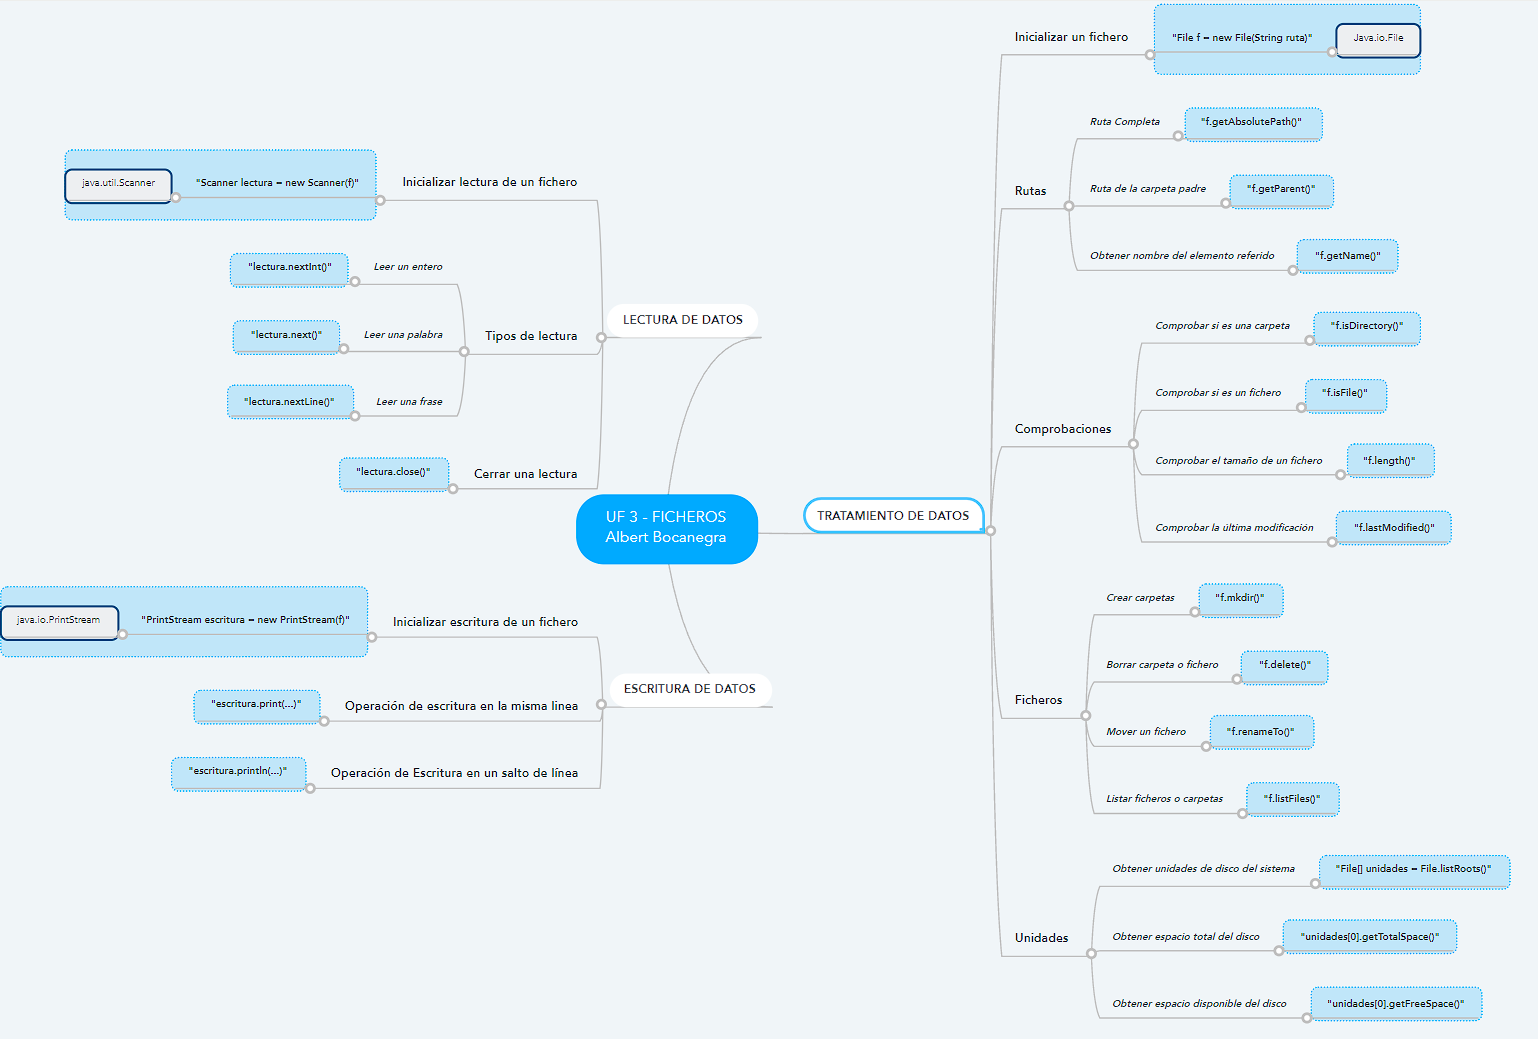
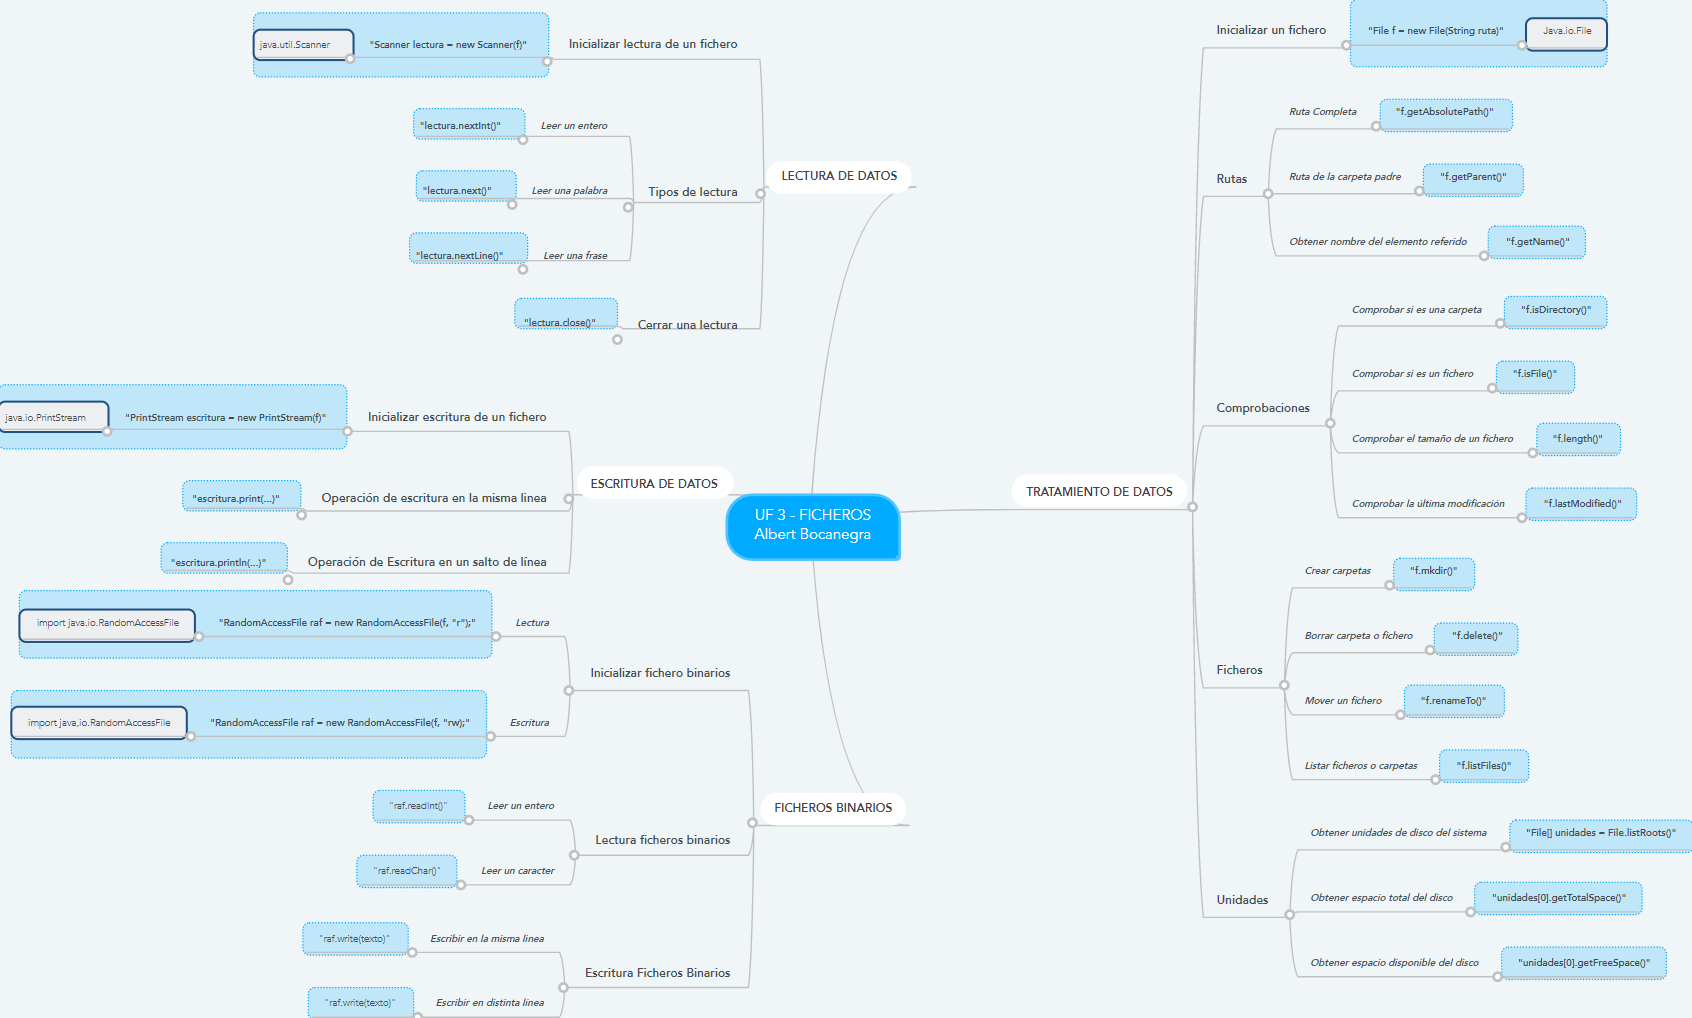
Nuevos documentos
Nuevos ficheros de texto de M03 de programacion

diff --git a/M03 - Programación/ficheros/src/main/java/dev/boca/ficheros/E025reales.java b/M03 - Programación/ficheros/src/main/java/dev/boca/ficheros/E025reales.java
@@ -1,0 +1,65 @@
+package dev.boca.ficheros;
+
+import java.io.File;
+import java.io.RandomAccessFile;
+import java.util.Arrays;
+import java.util.Random;
+
+public class E025reales {
+    public static void main(String[] args) {
+        E025reales programa = new E025reales();
+        programa.inicio();
+    }
+    
+    public void inicio(){
+        File f = new File("Reales.bin");
+        crearFichero(f);
+        double[] valores = leerReales(f);
+        if(valores != null){
+            // todook
+            Arrays.sort(valores);
+            for(int i = valores.length-1; i>=0;i--){
+                System.out.println(valores[i]);
+            }
+        }else{
+            System.out.println("Error en la lectura de datos");
+        }
+    }
+    
+    // lectura de datos del bin y guardarlos en un array
+    // entrada -> ruta
+    // salida -> array de reales
+    public double[] leerReales(File f){
+        try {
+            RandomAccessFile raf = new RandomAccessFile(f, "r");
+            // calculo del numero de reales
+            long numReales = f.length() / 8;
+            // necesito un entero para inicializar el array
+            int n = (int)numReales;
+            double []array = new double[n];
+            for(int i = 0; i<numReales; i++){
+                array[i] = raf.readDouble();
+            }
+            raf.close();
+            return array;
+        } catch (Exception e) {
+            System.out.println("Error: " + e);
+            return null;
+        }
+    }
+    // metodo que crea fichero bin con valores random entre 0 y 100
+    // entrada -> la ruta
+    // salida -> nope
+    public void crearFichero(File f){
+        try {
+            RandomAccessFile raf = new RandomAccessFile(f, "rw");
+            Random r = new Random();
+            for(int i = 0; i<20;i++){
+                raf.writeDouble(100*r.nextDouble());
+            }
+            raf.close();
+        } catch (Exception e) {
+            System.out.println("Error: " + e);
+        }
+    }
+}

diff --git a/M03 - Programación/ficheros/src/main/java/dev/boca/ficheros/E021notasNuevoFichero.java b/M03 - Programación/ficheros/src/main/java/dev/boca/ficheros/E021notasNuevoFichero.java
@@ -1,0 +1,57 @@
+package dev.boca.ficheros;
+
+import java.io.File;
+import java.io.FileWriter;
+import java.io.PrintStream;
+import java.io.PrintWriter;
+import java.util.Scanner;
+
+public class E021notasNuevoFichero {
+       
+    public static void main(String[] args) {
+        E021notasNuevoFichero programa = new E021notasNuevoFichero();
+        programa.inicio();
+    }
+    
+    public void inicio(){
+        try {
+            File f = new File("conversacion.txt");
+            PrintStream escritura = new PrintStream(f);      
+            String Nombre1 = "Albert";
+            String Nombre2 = "Jose";
+            escritura.println("Esta conversacion la compone entre: " + Nombre1 + " y " + Nombre2);
+            conversacion(Nombre1, Nombre2, f);
+            escritura.close();
+        } catch (Exception e) {
+            System.out.println("Error: " + e);
+        }
+    }
+    
+    public void conversacion(String a, String b, File f){
+        try {
+            int turno = 0;
+            PrintWriter sobreEscritura = new PrintWriter(new FileWriter(f, true));
+            boolean fin = false;
+            Scanner entrada = new Scanner(System.in);
+            while(!fin){
+                String texto;
+                if(turno == 0){
+                    texto = entrada.nextLine();
+                    sobreEscritura.println(a + ": " + texto);
+                    turno++;
+                }else{
+                    texto = entrada.nextLine();
+                    sobreEscritura.println(b + ": " + texto);
+                    turno--;
+                }
+                if(texto.equals("f")){
+                    fin = true;
+                }
+            }
+            sobreEscritura.close();
+        } catch (Exception e) {
+            System.out.println("Error: " + e);
+        }
+    }
+    
+}

diff --git a/M03 - Programación/ficheros/src/main/java/dev/boca/ficheros/E023sobreescribirBin.java b/M03 - Programación/ficheros/src/main/java/dev/boca/ficheros/E023sobreescribirBin.java
@@ -1,0 +1,34 @@
+package dev.boca.ficheros;
+
+import java.io.File;
+import java.io.RandomAccessFile;
+
+public class E023sobreescribirBin {
+    public static void main(String[] args) {
+        E023sobreescribirBin programa = new E023sobreescribirBin();
+        programa.inicio();
+    }
+    
+    public void inicio(){
+        try {
+            File f = new File("Enteros.bin");
+            RandomAccessFile raf = new RandomAccessFile(f, "rw");
+            long puntero = raf.getFilePointer();
+            System.out.println("Inicio: puntero en posicion " + puntero);
+            // sobreescribir parte del fichero
+            for(int i = 0; i<5; i++){
+                raf.writeInt(-1);
+            }
+            // si el fichero tiene mas datos, se mantendran al final
+            puntero = raf.getFilePointer();
+            System.out.println("Inicio: puntero en posicion " + puntero);
+            // medida del fichero
+            raf.setLength(puntero);
+            raf.close();
+            System.out.println("Fichero modificado correctamente");
+        } catch (Exception e) {
+            System.out.println("Error: " + e); 
+        }
+    }
+    
+}

diff --git a/M03 - Programación/ficheros/src/main/java/dev/boca/ficheros/E022binarios20enteros.java b/M03 - Programación/ficheros/src/main/java/dev/boca/ficheros/E022binarios20enteros.java
@@ -1,0 +1,27 @@
+package dev.boca.ficheros;
+
+import java.io.File;
+import java.io.RandomAccessFile;
+
+public class E022binarios20enteros {
+    public static void main(String[] args) {
+        E022binarios20enteros programa = new E022binarios20enteros();
+        programa.inicio();
+    }
+
+    public void inicio(){
+        try {
+            File f = new File("Enteros.bin");
+            RandomAccessFile raf = new RandomAccessFile(f, "rw");
+            int valor = 1;
+            for (int i = 0; i < 20; i++) {
+                raf.writeInt(valor);
+                valor = valor * 2;
+            }
+            System.out.println("Fichero escrito correctamente");
+            raf.close();
+        } catch (Exception e) {
+            System.out.println("Error: " + e);
+        }
+    }
+}

diff --git a/M03 - Programación/ficheros/src/main/java/dev/boca/ficheros/E024lectura.java b/M03 - Programación/ficheros/src/main/java/dev/boca/ficheros/E024lectura.java
@@ -1,0 +1,28 @@
+package dev.boca.ficheros;
+
+import java.io.File;
+import java.io.RandomAccessFile;
+
+public class E024lectura {
+    public static void main(String[] args) {
+        E024lectura programa = new E024lectura();
+        programa.inicio();
+    }
+    
+    public void inicio(){
+        try{
+            File f = new File("Enteros.bin");
+            RandomAccessFile raf = new RandomAccessFile(f, "r");
+            //calculo del numero de enteros
+            long numEnteros = f.length();
+            for(int i = 0; i<numEnteros;i++){
+                int valor = raf.readInt();
+                System.out.println("Valor leido: " + valor);
+            }
+            raf.close();
+            
+        }catch (Exception e) {
+        
+        }
+    }
+}
